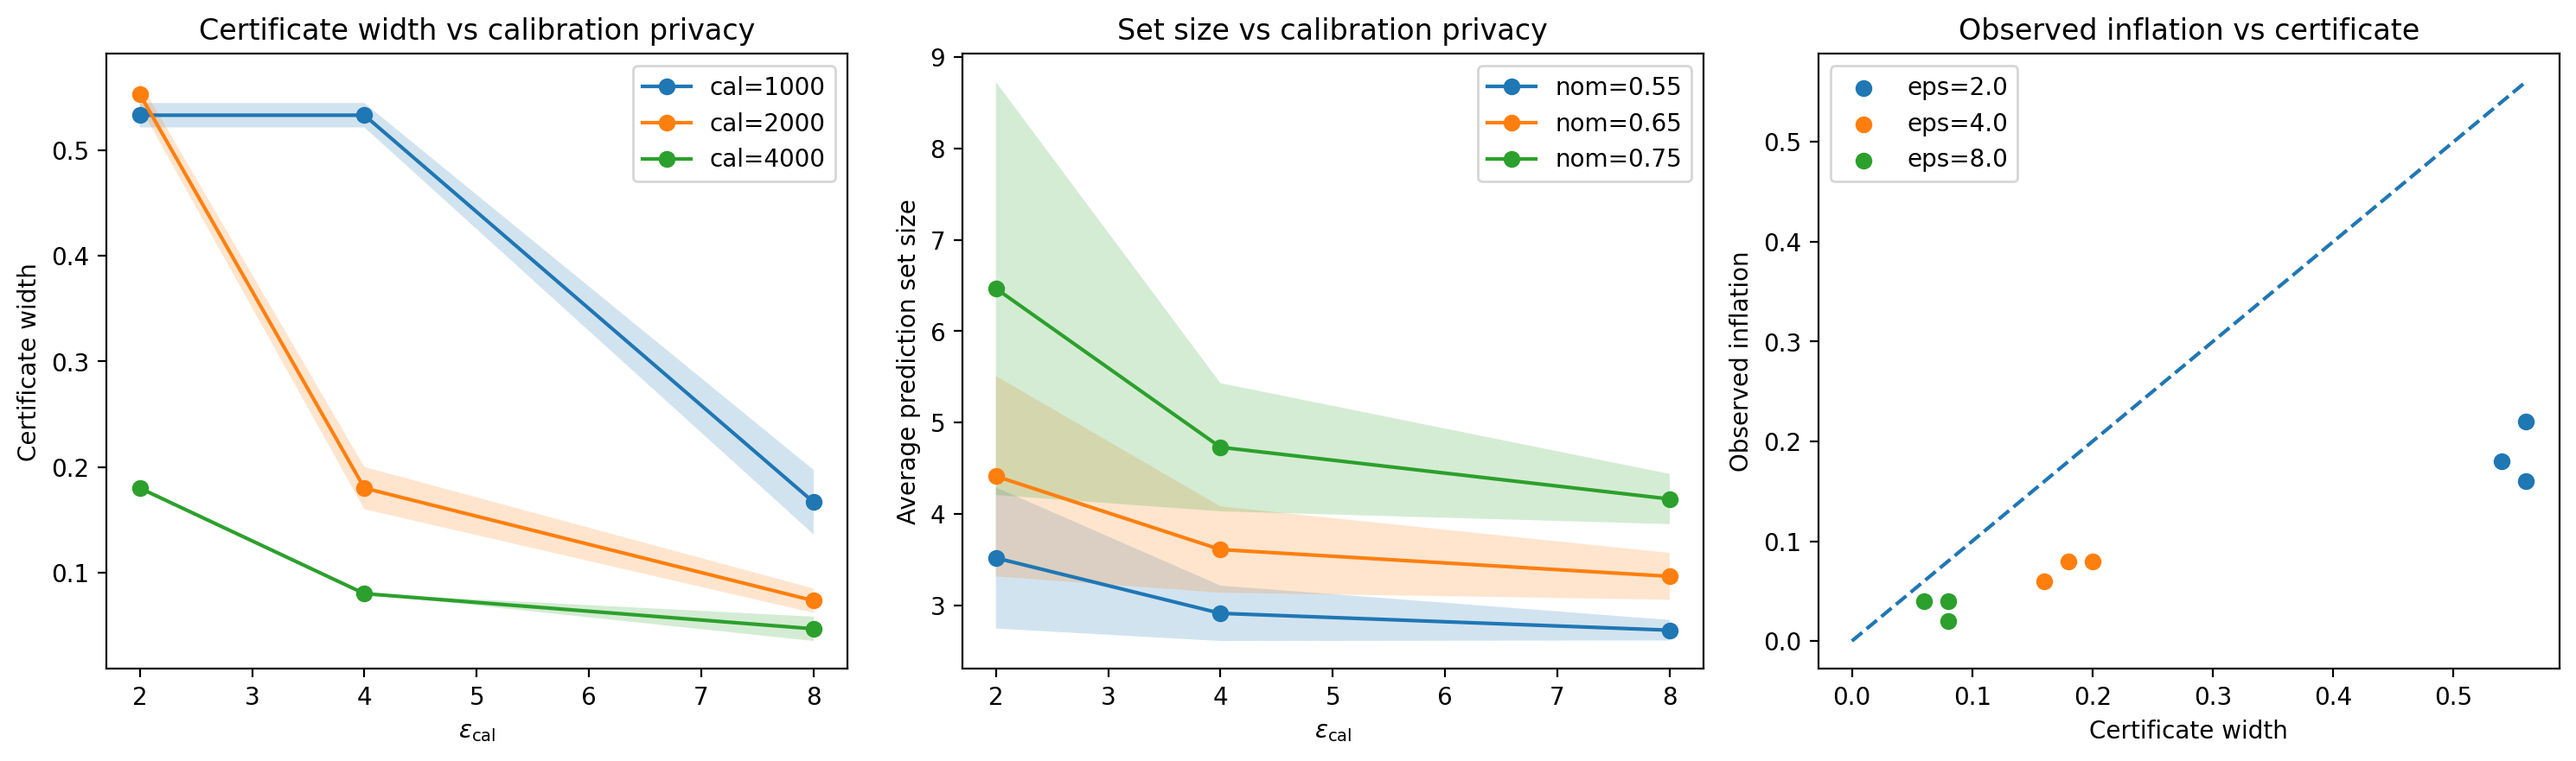
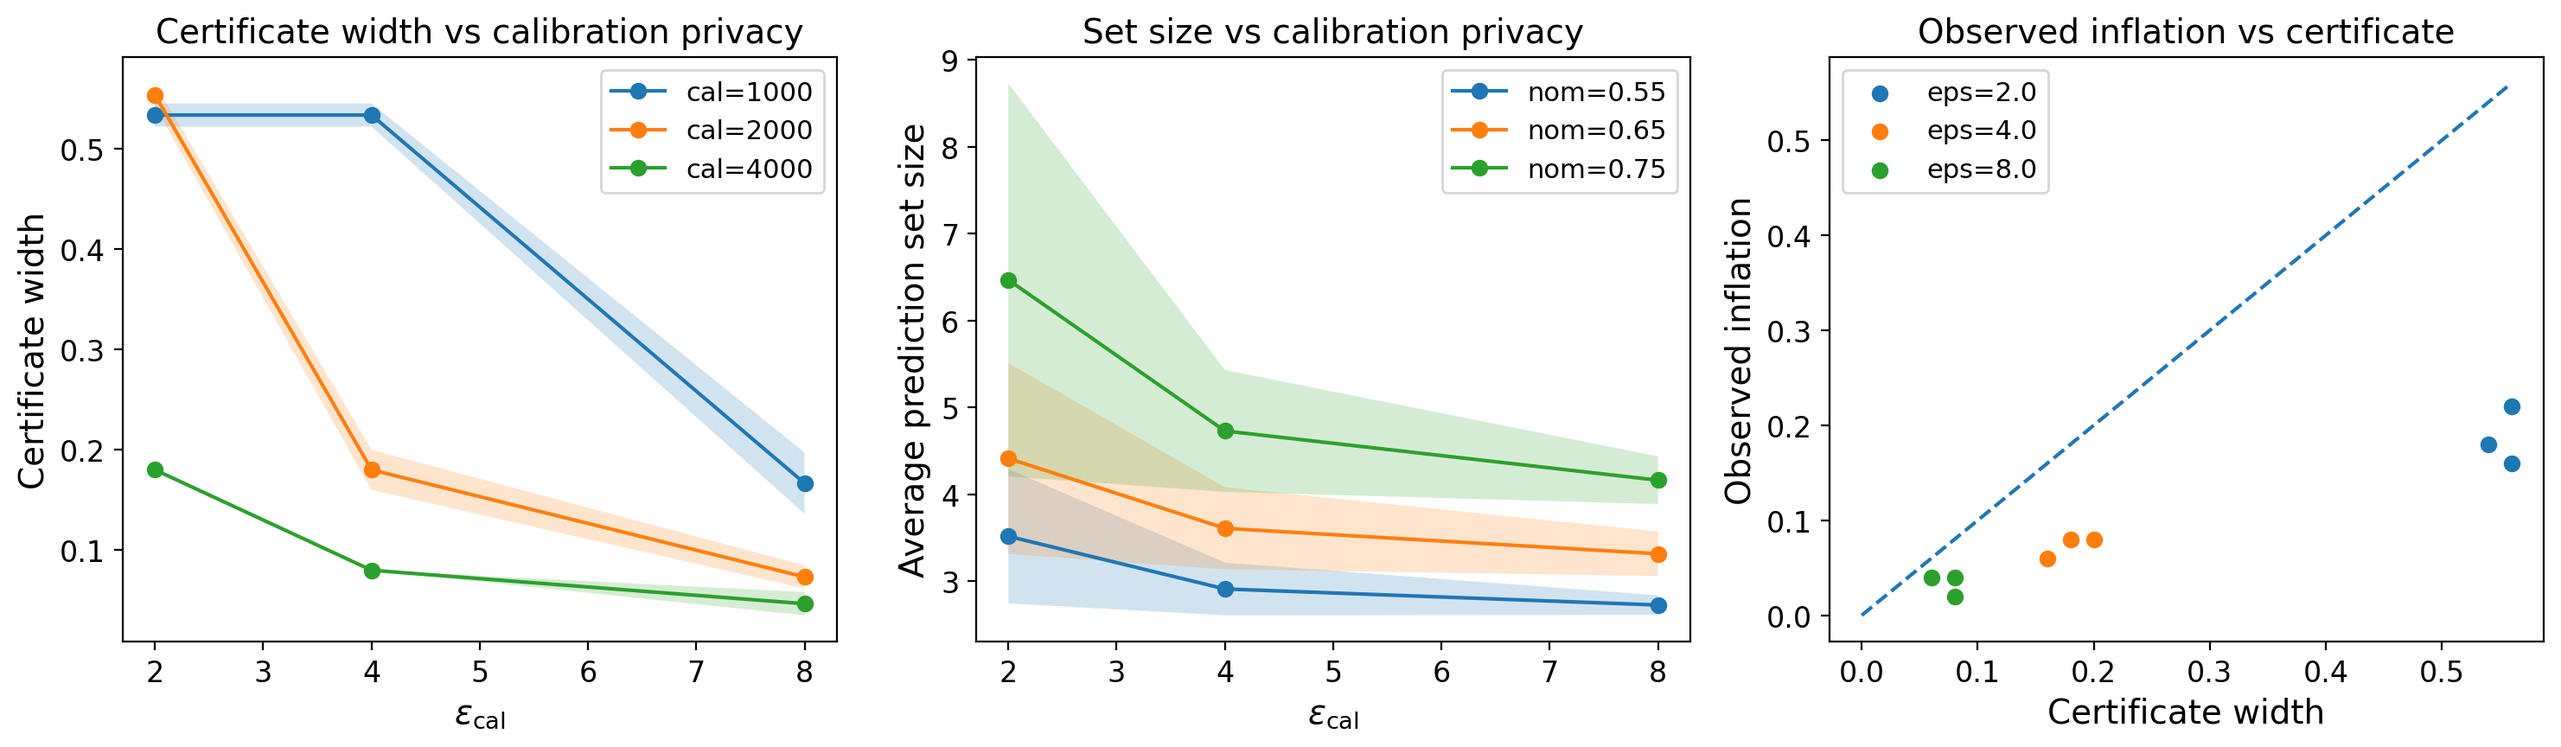
Plots

diff --git a/toy/plot_three_panels.py b/toy/plot_three_panels.py
@@ -38,6 +38,17 @@ def make_three_panel_figure(
     outpath: str | Path,
     aggregate: str = "mean",
 ) -> None:
+
+    plt.rcParams.update({
+        "font.size": 13,
+        "axes.titlesize": 14,
+        "axes.labelsize": 14,
+        "xtick.labelsize": 12,
+        "ytick.labelsize": 12,
+        "legend.fontsize": 11,
+    })
+
+
     fig, axes = plt.subplots(1, 3, figsize=(15, 4.5))
 
     # -----------------------------
